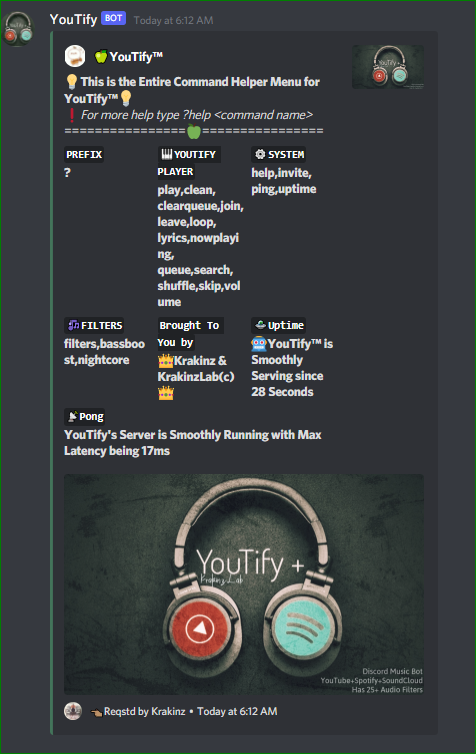
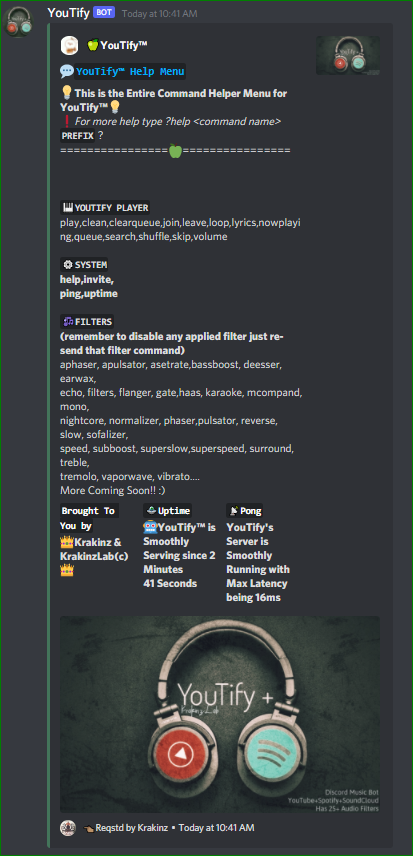
🍏YouTify™ v9  + New Filters + Stable

Changed region(s): [[0.0, 0.0, 0.9298, 1.0], [0.7554, 0.0305, 0.9007, 0.122]]

diff --git a/README.md b/README.md
@@ -25,7 +25,7 @@ Stable Since Version 🍏YouTify™_ʏօʊȶɨʄɨ🍏ƈɨօʊֆ_v6.
 
 # 📂 CӨMMΛNDS
 
-<p align="centre"><img  width="40%" height="40%" img src="https://i.postimg.cc/QCMjtwGx/You-Tify-Help.png" /></p>
+<p align="centre"><img  width="40%" height="40%" img src="https://i.postimg.cc/tC6ySh5T/You-Tify-Help.png" /></p>
 
 # 〽 MΣΣƬ US ӨЯ CΉΣCK ӨƬΉΣЯ BӨƬS
 
